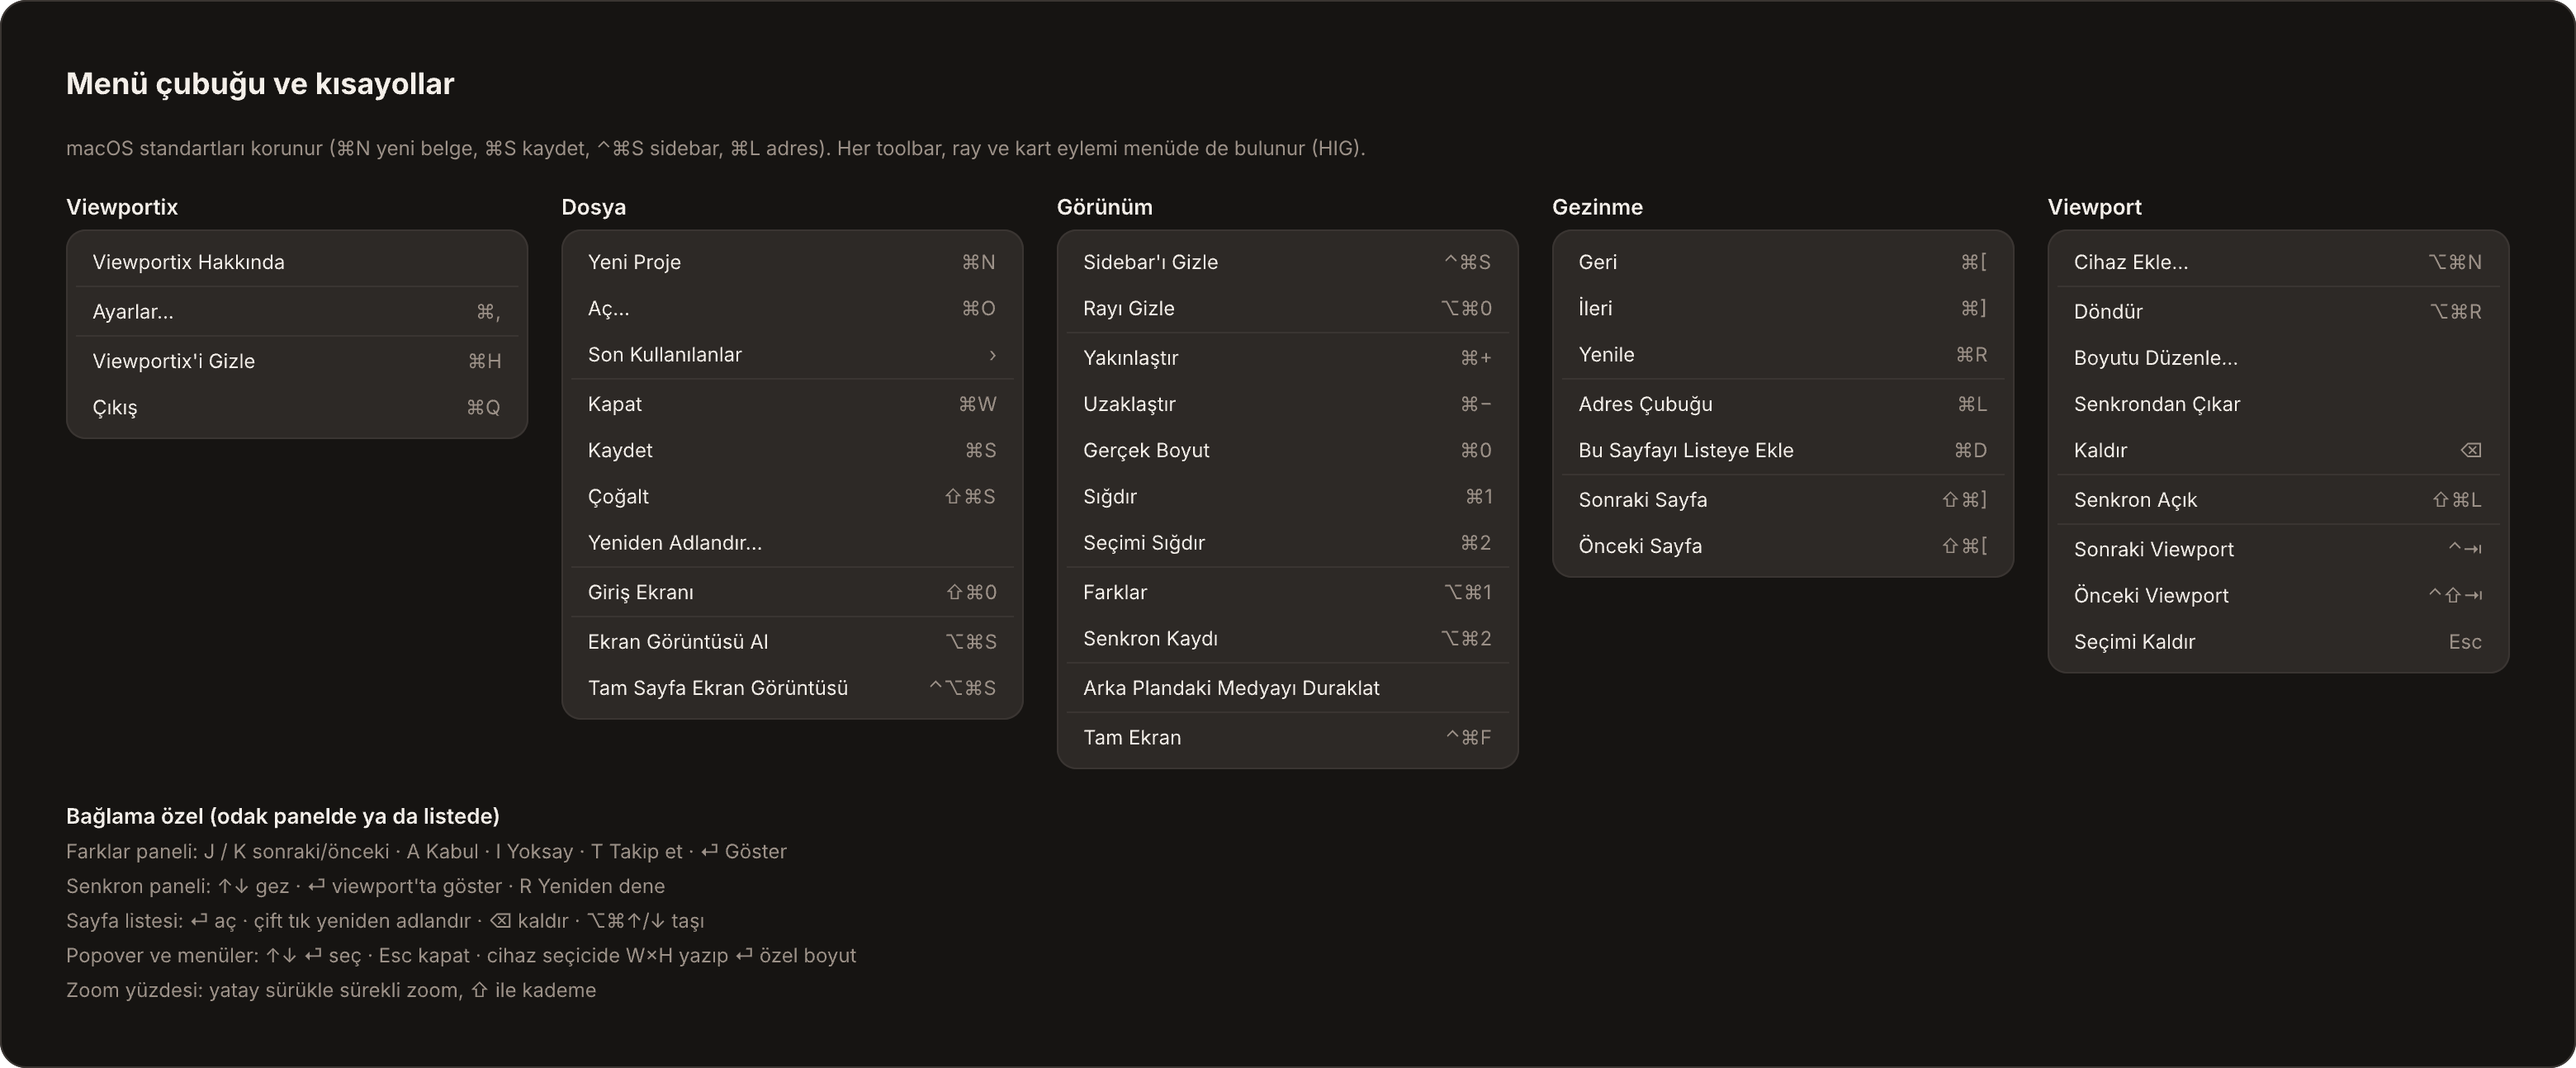
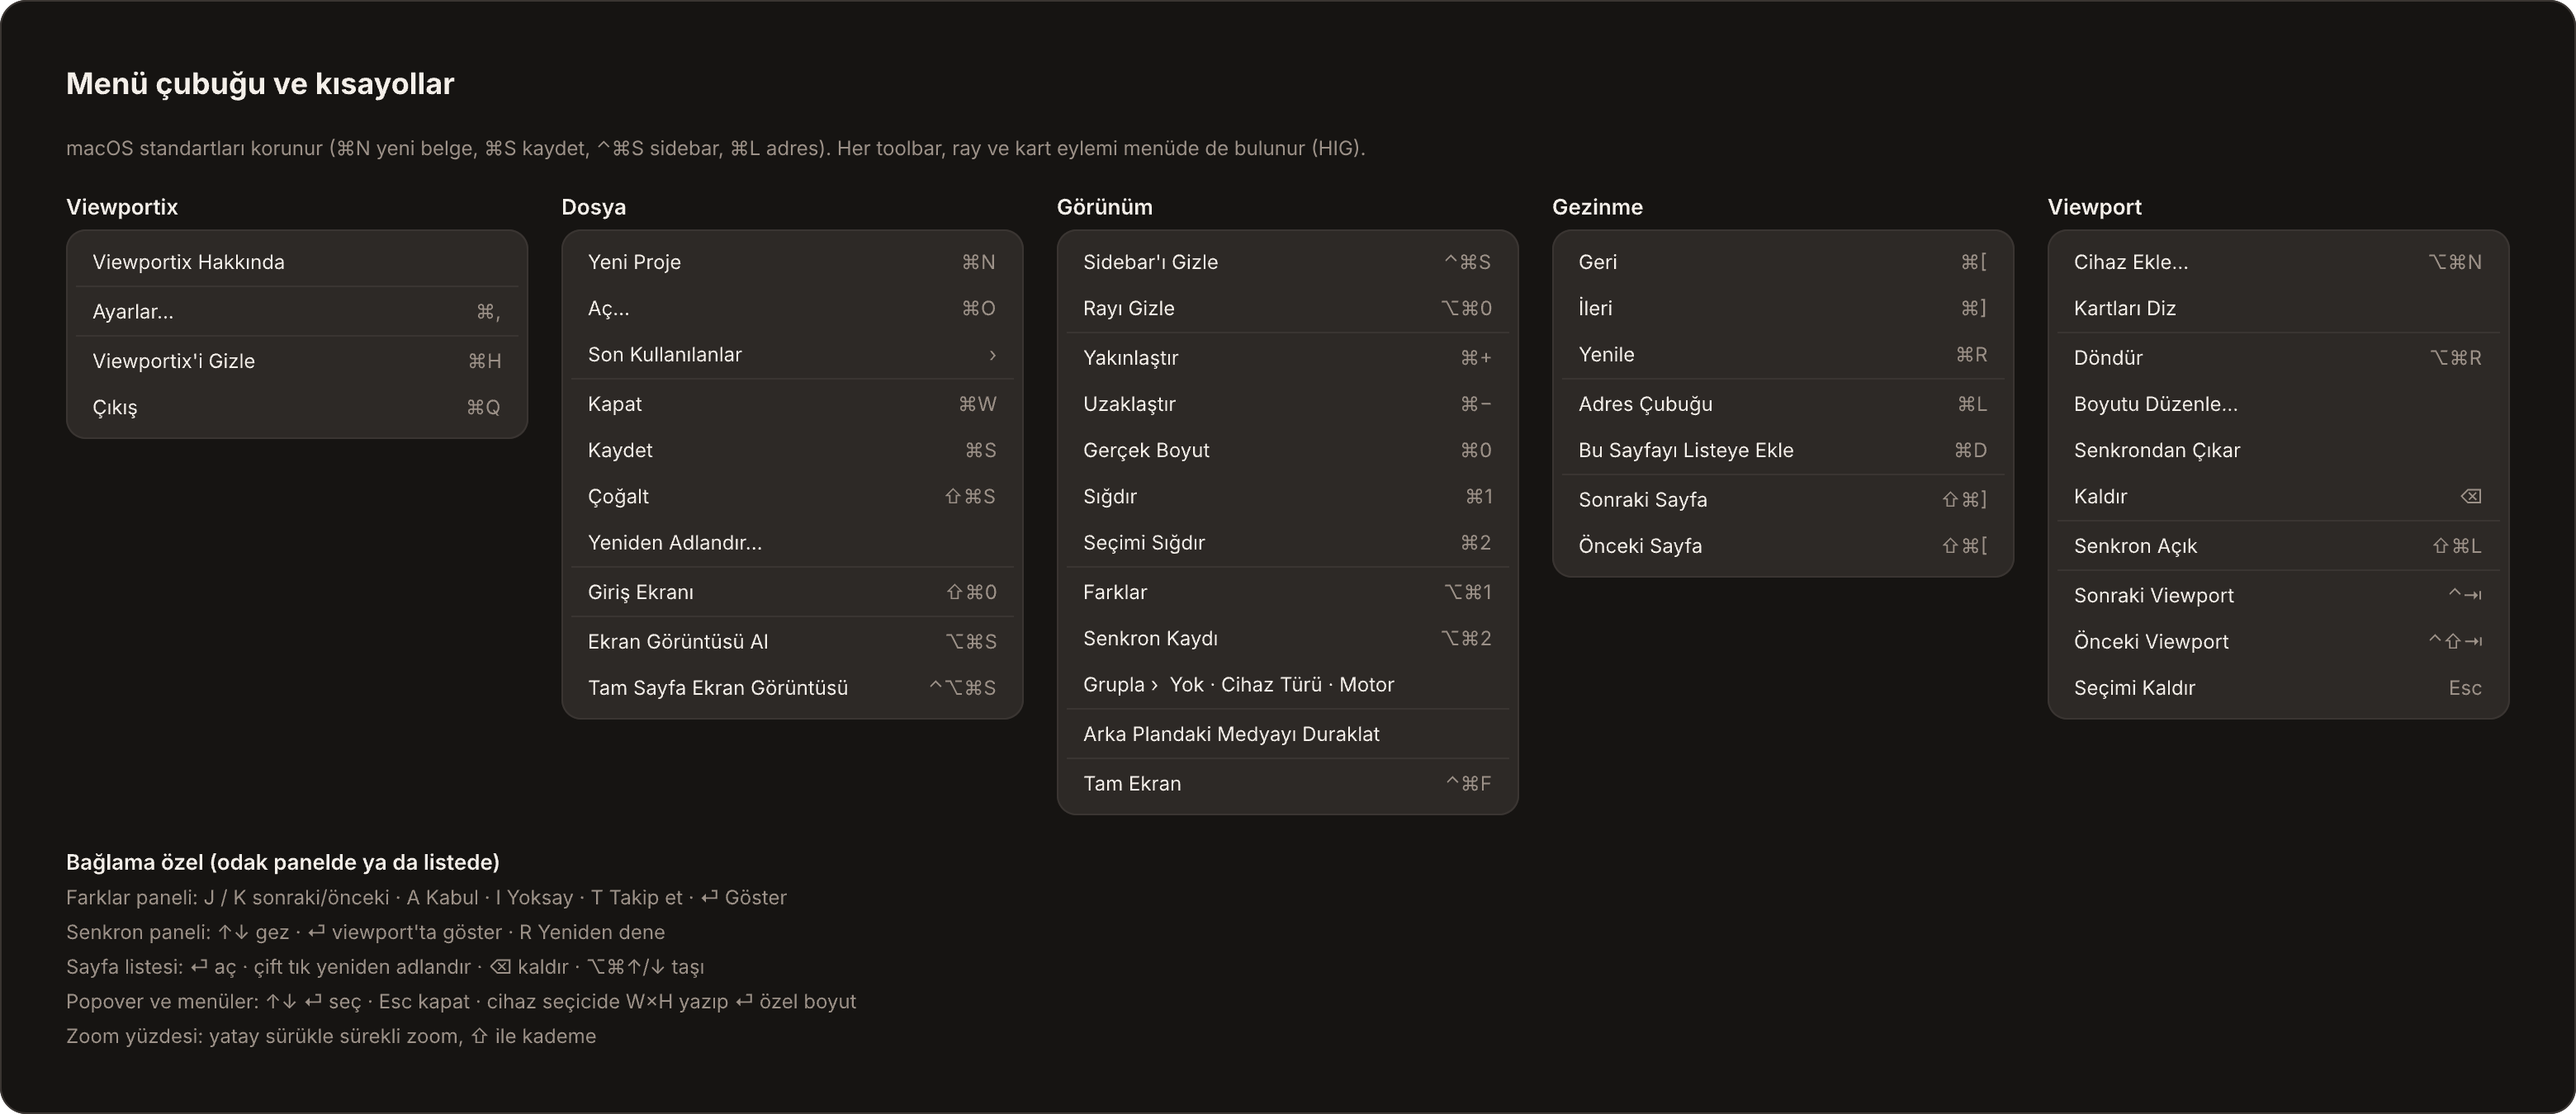
Fill doc gaps, draw collapsed/engine groups and file errors, list small items

diff --git a/design/notlar/2026-10-11.md b/design/notlar/2026-10-11.md
@@ -4,3 +4,4 @@
 - Kullanıcı: TEMP dosyayı sil, kod için güncelle. `TEMP · Medya duraklatma açıklaması` (MRl49) ve PNG'si silindi; eski A/B deneme çıktıları `d9I12W.png`, `FeZah.png` (frame'leri yoktu) silindi. HANDOFF baştan yazıldı (kod oturumu için okuma sırası, açık işler); KOD-OTURUMU-ISLERI §2 superseded, §12 uygulama sırası + medya notu. **İşlendi**.
 - Kullanıcı: eksik çizimleri yap. Çizildi: `Card Load Errors` (s3Atj, 05, x=10400), `Project Window · Kart sürükleniyor` (q6obk, 03, x=9360), `Project Window · Gruplar (cihaz türü)` (N1dkY, 03, x=10920), `Sidebar · Cihaz listesi seçenekleri` (vbGSj, 03, x=12480), `Misc States` (g5nQ0p, 05, x=12200). Bulgu: lucide'de `grab` yok → `hand-grab`. DESIGN.md §5'e 12–16 olarak 'taslak / karar bekliyor' işlendi. Karar bekliyor.
 - Karar: V1 (sidebar yalnız sayfalar), F1 (odak gök), diğer taslaklar onaylandı. Seçenek frame'i arşive (x=-10000, y=3280); Misc States'ten F2 satırı kaldırıldı. Kullanıcı: 'koda aktarma daha' → KOD-OTURUMU-ISLERI'ye eklenmedi, HANDOFF'ta beklemede notu. **İşlendi** (DESIGN.md §4, §5 12–16).
+- Kullanıcı: belge eksiklerini yap, çizilmemiş halleri çiz, küçük ayrıntıları tara. Belge: etkileşim tablosuna 19 satır (sürükleme, gruplama, hata, genişlik, odak, giriş araması, dosya bulunamadı), menü tablosu + `Shortcut Map` (Grupla, Kartları Diz; kısayolsuz, ⌥⌘D Dock), Chrome Spec'e gruplu şerit, Tema satırı iki ayarlar panelinde gizlendi. Çizim: `Project Window · Gruplar · katlanmış` (B1aeP, x=12480 y=3280), `Project Window · Gruplar (motor, M4)` (SlUcW, x=14040 y=3280), `Home File Errors` (BQurR, x=13600 y=6040). Bulgu: Get path geometrisini '...' döndürüyor; Update ile geometry kopyalanamaz → Replace + Copy. VoiceOver tablosu §6; küçük ayrıntılar §5 madde 20 (a–j). Karar bekliyor.

diff --git a/design/HANDOFF.md b/design/HANDOFF.md
@@ -34,6 +34,10 @@ Dışa aktarım adları: `window-project-*` (proje penceresi halleri), `window-h
 
 **İleride:** Icon Composer (B6), açık tema, inspector, tam yükseklik modu, M4/M6 motor seçici. **Kullanıcıda:** `viewportix.lib.pen` dönüşümü; pen.dev'de ⌘S ile kaydetme (diskteki `.pen` ilk commit'ten beri değişmedi).
 
+## Onay bekleyenler (2026-10-11)
+
+DESIGN.md §5 madde 17–20: katlanmış grup + motora göre gruplama, proje dosyası sorunları, VoiceOver etiketleri, küçük ayrıntılar (a–j). Bunlar da koda aktarılmadı.
+
 ## Oturum başında oku
 
 - `docs/HANDOFF.md` ve `docs/tasarim-istekleri.md`: son işlenenden sonraki girdileri işle.
